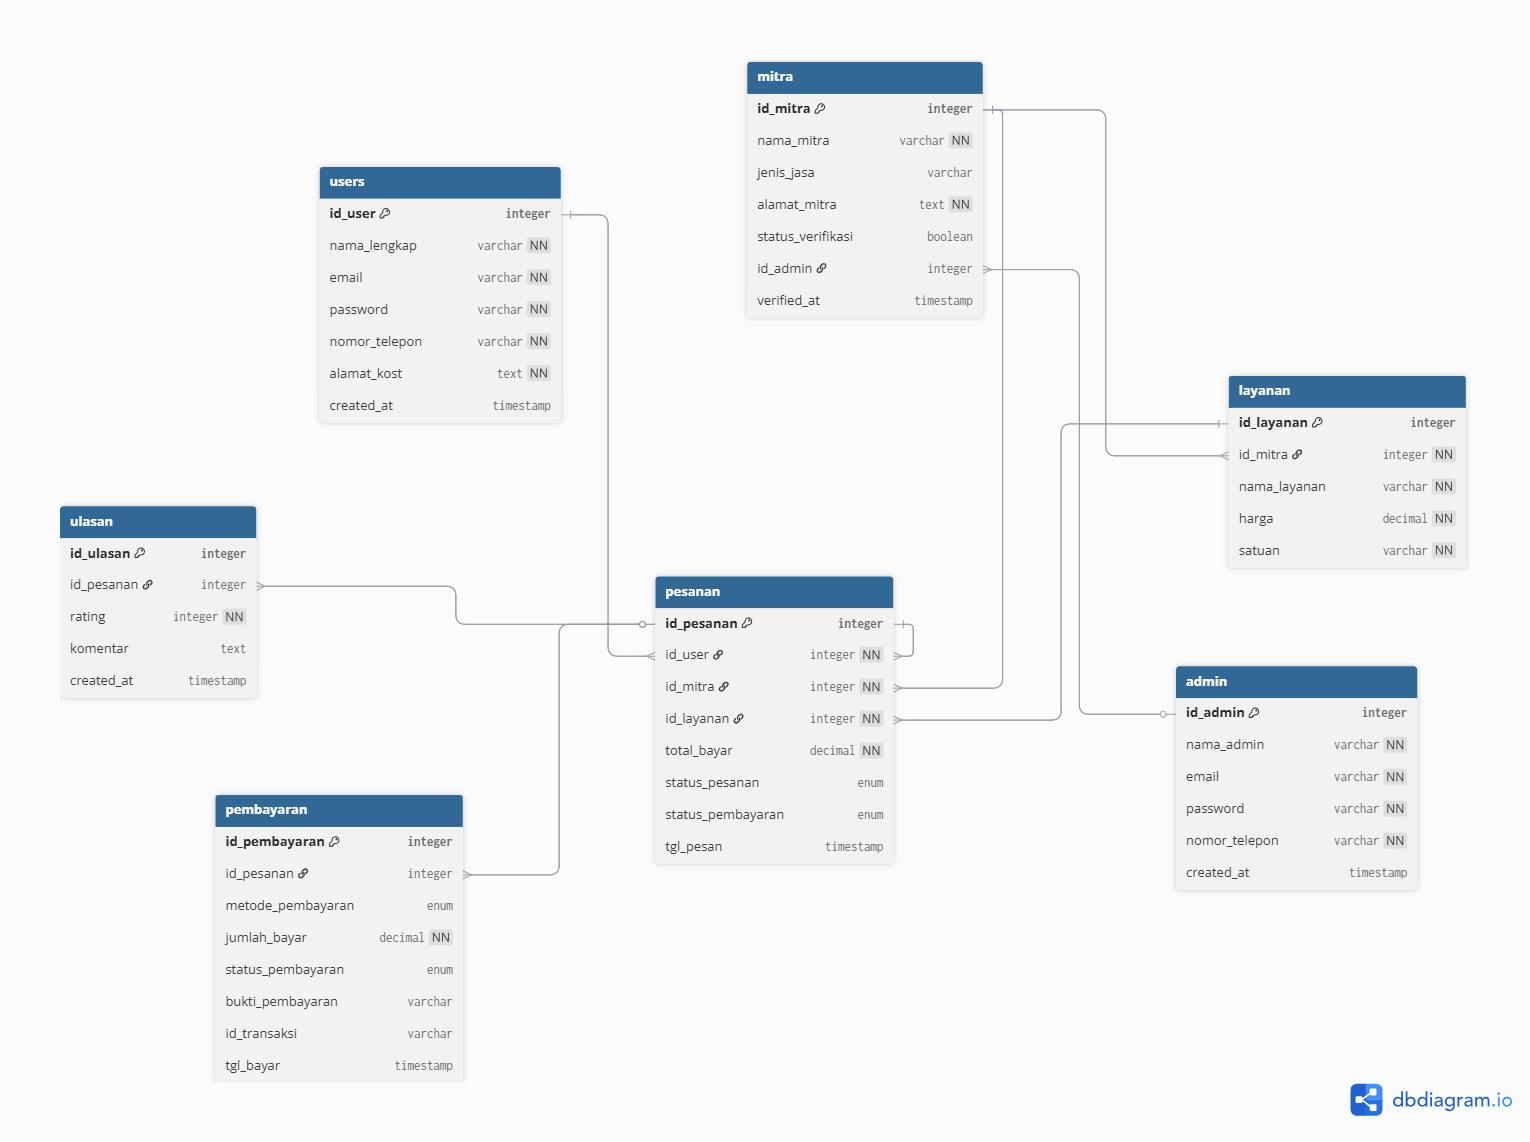
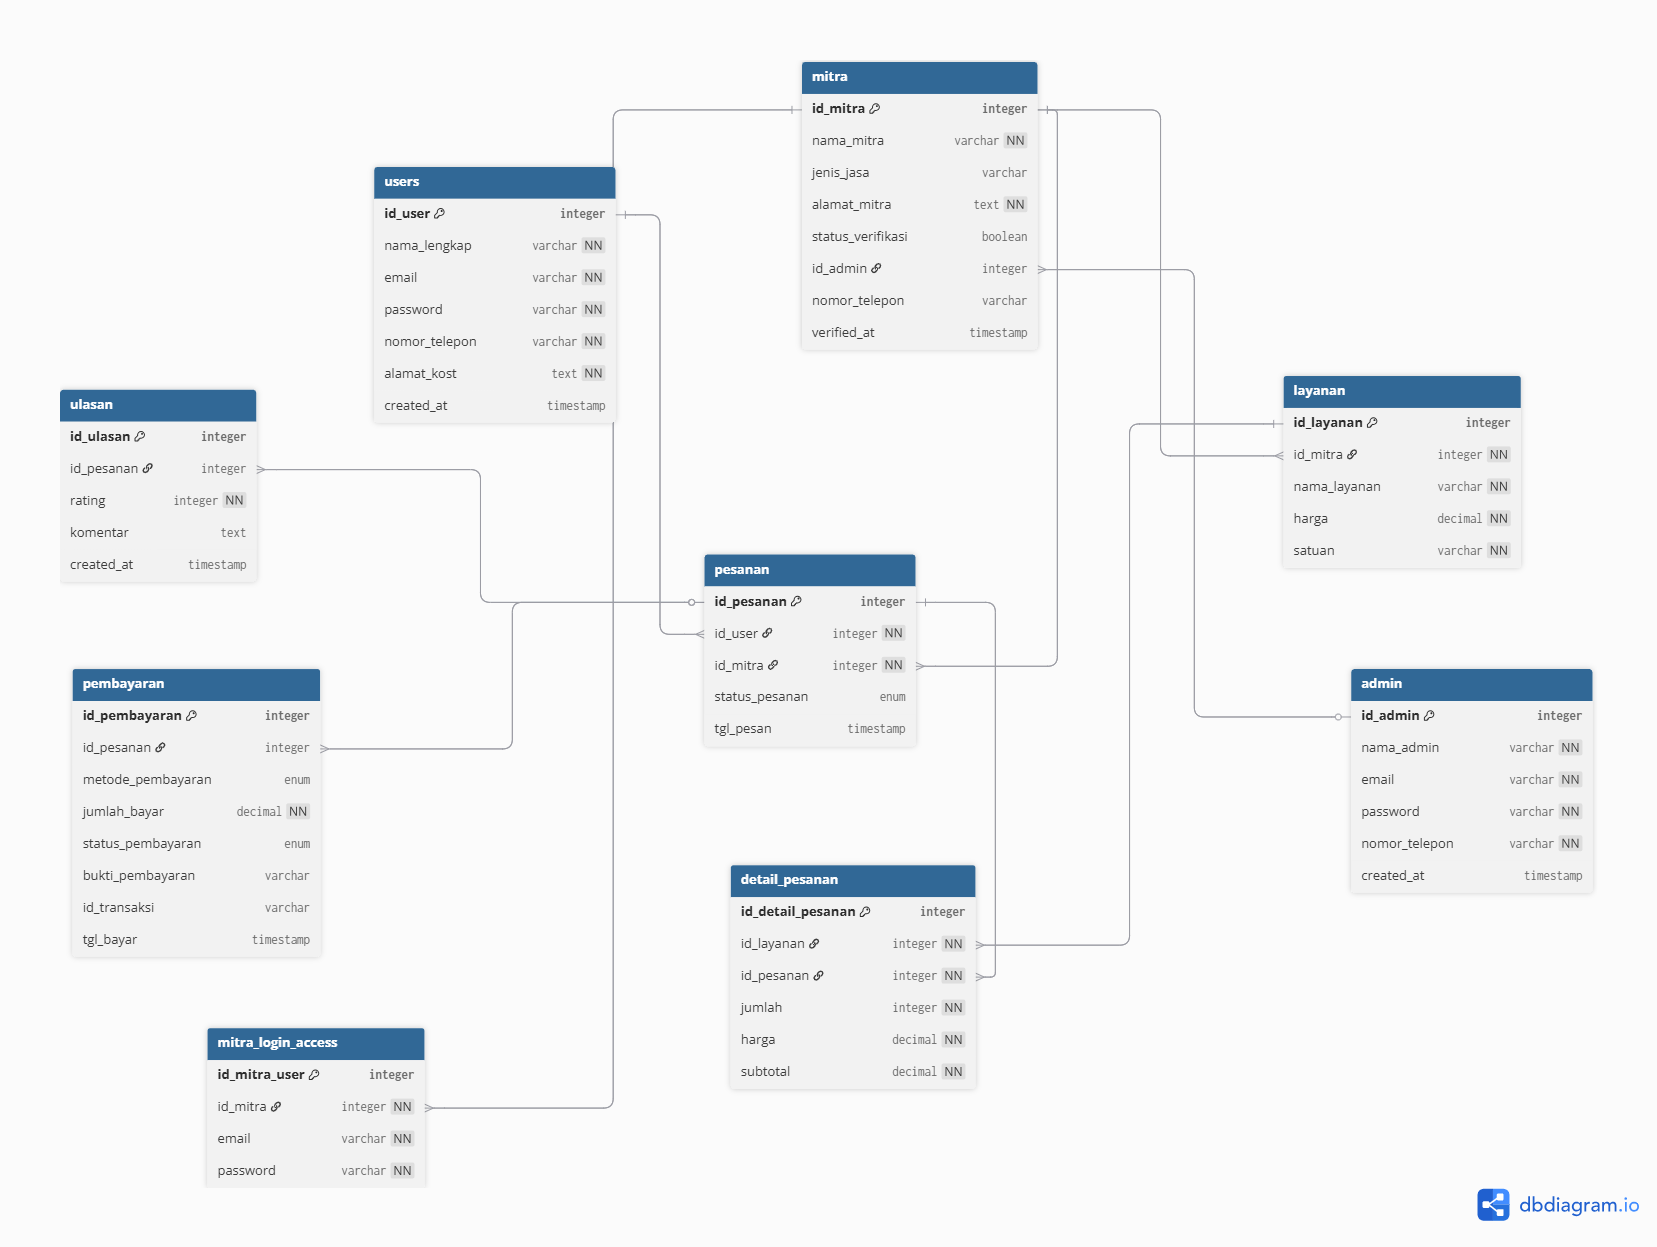
docs: erd and data dictionary revisions

diff --git a/docs/data-dictonary.md b/docs/data-dictonary.md
@@ -8,238 +8,91 @@ Dokumen ini berisikan detail teknis terkait entitas data yang digunakan dalam pl
 Berikut adalah daftar tabel yang akan diimplementasikan:
 
 ## users
-*   Nama kolom:id_user
-    Tipe data:integer
-    Constraint:primary key, unique
-    Keterangan:ID unik pengguna
-
-*   Nama kolom:nama_lengkap
-    Tipe data:varchar
-    Constraint:not null
-    Keterangan:nama lengkap user
-
-*   Nama kolom:email
-    Tipe data:varchar
-    Constraint:unique, not null
-    Keterangan:email untuk login
-
-*   Nama kolom:password
-    Tipe data:varchar
-    Constraint:not null
-    Keterangan:password user yang dihashing
-
-*   Nama kolom:nomor_telepon
-    Tipe data:varchar
-    Constraint:unique, not null
-    Keterangan:nomor telepon user
-
-*   Nama kolom:alamat_kost
-    Tipe data:text
-    Constraint:not null
-    Keterangan:lokasi spesifik pengiriman/penjemputan
-
-*   Nama kolom:created_at
-    Tipe data:timestamp
-    Constraint: -
-    Keterangan:waktu pendaftaran akun
+| Nama Kolom | Tipe Data | Constraint | Keterangan |
+| --- | --- | --- | --- |
+| id_user | integer | primary key, unique | ID unik pengguna |
+| nama_lengkap | varchar | not null | Nama lengkap user |
+| email | varchar | unique, not null | Email untuk login |
+| password | varchar | not null | Password user (hashed) |
+| nomor_telepon | varchar | unique, not null | Nomor telepon user |
+| alamat_kost | text | not null | Lokasi kost / alamat pengiriman |
+| created_at | timestamp | - | Waktu pendaftaran akun |
 ----------------------------------------------------------------------
 ## admin
-*   Nama kolom:id_admin
-    Tipe data:integer
-    Constraint:primary key, unique
-    Keterangan:ID unik admin
-
-*   Nama kolom:nama_admin
-    Tipe data:varchar
-    Constraint:not null
-    Keterangan:Nama admin
-
-*   Nama kolom:email
-    Tipe data:varchar
-    Constraint:unique, not null
-    Keterangan:email admin
-
-*   Nama kolom:password
-    Tipe data:varchar
-    Constraint:not null
-    Keterangan:password yang dihashing
-
-*   Nama kolom:nomor_telepon
-    Tipe data:varchar
-    Constraint:not null, unique
-    Keterangan:nomor telepon admin
-
-*   Nama kolom:created_at
-    Tipe data:timestamp
-    Constraint:-
-    Keterangan:waktu pembuatan akun admin
+| Nama Kolom | Tipe Data | Constraint | Keterangan |
+| --- | --- | --- | --- |
+| id_admin | integer | primary key, unique | ID unik admin |
+| nama_admin | varchar | not null | Nama admin |
+| email | varchar | unique, not null | Email admin |
+| password | varchar | not null | Password admin (hashed) |
+| nomor_telepon | varchar | unique, not null | Nomor telepon admin |
+| created_at | timestamp | - | Waktu pembuatan akun admin |
 ----------------------------------------------------------------------
 ## mitra
-*   Nama kolom:id_mitra
-    Tipe data:integer
-    Constraint:primary key, unique
-    Keterangan:ID unik mitra
-
-*   Nama kolom:nama_mitra
-    Tipe data:varchar
-    Constraint:not null
-    Keterangan:Nama usaha mitra
-
-*   Nama kolom:jenis_jasa
-    Tipe data:varchar
-    Constraint:not null
-    Keterangan:jenis jasa yang ditawarkan mitra
-
-*   Nama kolom:alamat_mitra
-    Tipe data:text
-    Constraint:not null
-    Keterangan:lokasi tempat usaha mitra
-
-*   Nama kolom:status_verifikasi
-    Tipe data:boolean
-    Constraint:default[0]
-    Keterangan:status verifikasi yang diberikan oleh admin
-
-*   Nama kolom:id_admin
-    Tipe data:integer
-    Constraint:-
-    Keterangan:id admin yang memberikan verifikasi mitra
-
-*   Nama kolom:verified_at
-    Tipe data:timestamp
-    Constraint:-
-    Keterangan:waktu mitra diverifikasi oleh admin
+| Nama Kolom | Tipe Data | Constraint | Keterangan |
+| --- | --- | --- | --- |
+| id_mitra | integer | primary key, unique | ID unik mitra |
+| nama_mitra | varchar | not null | Nama usaha mitra |
+| jenis_jasa | varchar | - | Jenis jasa yang ditawarkan |
+| alamat_mitra | text | not null | Lokasi usaha mitra |
+| status_verifikasi | boolean | default: 0 | Status verifikasi oleh admin |
+| id_admin | integer | - | ID admin yang memverifikasi |
+| nomor_telepon | varchar | - | Nomor telepon mitra |
+| verified_at | timestamp | - | Waktu mitra diverifikasi |
+----------------------------------------------------------------------
+## mitra_login_access
+| Nama Kolom | Tipe Data | Constraint | Keterangan |
+| --- | --- | --- | --- |
+| id_mitra_user | integer | primary key | ID unik akun login mitra |
+| id_mitra | integer | not null | Foreign key ke tabel mitra |
+| email | varchar | not null, unique | Email login mitra |
+| password | varchar | not null | Password login mitra (hashed) |
 ----------------------------------------------------------------------
 ## layanan
-*   Nama kolom:id_layanan
-    Tipe data:integer
-    Constraint:primary key, unique
-    Keterangan:ID unik layanan
-
-*   Nama kolom:id_mitra
-    Tipe data:integer
-    Constraint:not null
-    Keterangan:foreign key ke tabel mitra
-
-*   Nama kolom:nama_layanan
-    Tipe data:varchar
-    Constraint:not null
-    Keterangan:nama layanan yang ditawarkan mitra
-
-*   Nama kolom:harga
-    Tipe data:decimal
-    Constraint:not null
-    Keterangan:harga per unit/kg/jam
-
-*   Nama kolom:satuan
-    Tipe data:varchar
-    Constraint:not null
-    Keterangan:kg/jam/unit
+| Nama Kolom | Tipe Data | Constraint | Keterangan |
+| --- | --- | --- | --- |
+| id_layanan | integer | primary key, unique | ID unik layanan |
+| id_mitra | integer | not null | Foreign key ke tabel mitra |
+| nama_layanan | varchar | not null | Nama layanan |
+| harga | decimal | not null | Harga layanan |
+| satuan | varchar | not null | Satuan (kg/jam/unit) |
 ----------------------------------------------------------------------
 ## pesanan
-*   Nama kolom:id_pesanan
-    Tipe data:integer
-    Constraint:primary key, unique
-    Keterangan:ID unik pesanan
-
-*   Nama kolom:id_user
-    Tipe data:integer
-    Constraint:not null
-    Keterangan:id user yang melakukan pemesanan
-
-*   Nama kolom:id_mitra
-    Tipe data:integer
-    Constraint:not null
-    Keterangan:id mitra yang menerima pesanan
-
-*   Nama kolom:id_layanan
-    Tipe data:integer
-    Constraint:not null
-    Keterangan:id layanan yang dipilih
-
-*   Nama kolom:total_bayar
-    Tipe data:decimal
-    Constraint:not null
-    Keterangan:total harga setelah kalkulasi
-
-*   Nama kolom:status_pesanan
-    Tipe data:enum ['pending', 'diproses', 'selesai', 'dibatalkan']
-    Constraint:default['pending']
-    Keterangan:status dari pesanan
-
-*   Nama kolom:status_pembayaran
-    Tipe data:enum ['belum_bayar', 'menunggu_verifikasi', 'sudah_bayar']
-    Constraint:default['belum_bayar']
-    Keterangan:status pembayaran dari pesanan
-
-*   Nama kolom:tgl_pesan
-    Tipe data:timestamp
-    Constraint:-
-    Keterangan:waktu pesanan dibuat
+| Nama Kolom | Tipe Data | Constraint | Keterangan |
+| --- | --- | --- | --- |
+| id_pesanan | integer | primary key, unique | ID unik pesanan |
+| id_user | integer | not null | Foreign key ke tabel users |
+| id_mitra | integer | not null | Foreign key ke tabel mitra |
+| status_pesanan | enum | default: 'pending' | Status pesanan |
+| tgl_pesan | timestamp | - | Waktu pesanan dibuat |
+----------------------------------------------------------------------
+## detail_pesanan
+| Nama Kolom | Tipe Data | Constraint | Keterangan |
+| --- | --- | --- | --- |
+| id_detail_pesanan | integer | primary key | ID unik detail pesanan |
+| id_layanan | integer | not null | Foreign key ke tabel layanan |
+| id_pesanan | integer | not null | Foreign key ke tabel pesanan |
+| jumlah | integer | not null | Jumlah item layanan |
+| harga | decimal | not null | Harga per item |
+| subtotal | decimal | not null | Total harga item (jumlah × harga) |
 ----------------------------------------------------------------------
 ## ulasan
-*   Nama kolom:id_ulasan
-    Tipe data:integer
-    Constraint:primary key, unique
-    Keterangan:ID unik ulasan
-
-*   Nama kolom:id_pesanan
-    Tipe data:integer
-    Constraint:unique
-    Keterangan:foreign key ke tabel pesanan->merujuk ke transaksi pesanan secara spesifik
-
-*   Nama kolom:rating
-    Tipe data:integer
-    Constraint:not null
-    Keterangan:skor bintang->penilaian terhadap kualitas layanan
-
-*   Nama kolom:komentar
-    Tipe data:text
-    Constraint:-
-    Keterangan:catatan/ulasan dari pelanggan(user)
-
-*   Nama kolom:created_at
-    Tipe data:timestamp
-    Constraint:-
-    Keterangan:waktu ulasan dibuat
+| Nama Kolom | Tipe Data | Constraint | Keterangan |
+| --- | --- | --- | --- |
+| id_ulasan | integer | primary key, unique | ID unik ulasan |
+| id_pesanan | integer | unique | Foreign key ke tabel pesanan |
+| rating | integer | not null | Skor rating (bintang) |
+| komentar | text | - | Komentar ulasan |
+| created_at | timestamp | - | Waktu ulasan dibuat |
 ----------------------------------------------------------------------
 ## pembayaran
-*   Nama kolom:id_pembayaran
-    Tipe data:integer
-    Constraint:primary key, unique
-    Keterangan:ID unik transaksi pembayaran
-
-*   Nama kolom:id_pesanan
-    Tipe data:integer
-    Constraint:unique
-    Keterangan:foreign key ke tabel pesanan->merujuk pada pesanan secara spesifik
-
-*   Nama kolom:metode_pembayaran
-    Tipe data:enum ['cod', 'transfer_bank','qris', 'e-wallet']
-    Constraint:default['cod']
-    Keterangan:metode yang dilakukan untuk pembayaran
-
-*   Nama kolom:jumlah_bayar
-    Tipe data:decimal
-    Constraint:not null
-    Keterangan:nominal yang harus dibayarkan
-
-*   Nama kolom:status_pembayaran
-    Tipe data:enum ['pending', 'lunas', 'gagal', 'refund']
-    Constraint:default['pending']
-    Keterangan:status dari transaksi pembayaran
-
-*   Nama kolom:bukti_pembayaran
-    Tipe data:varchar
-    Constraint:-
-    Keterangan:nama file/url gambar (untuk transfer bank manual)
-
-*   Nama kolom:id_transaksi
-    Tipe data:varchar
-    Constraint:-
-    Keterangan:ID reference dari payment gateway yang digunakan
-
-*   Nama kolom:tgl_bayar
-    Tipe data:timestamp
-    Constraint:-
-    Keterangan:waktu transaksi dilakukan
+| Nama Kolom | Tipe Data | Constraint | Keterangan |
+| --- | --- | --- | --- |
+| id_pembayaran | integer | primary key, unique | ID unik pembayaran |
+| id_pesanan | integer | unique | Foreign key ke tabel pesanan |
+| metode_pembayaran | enum | default: 'cod' | Metode pembayaran |
+| jumlah_bayar | decimal | not null | Nominal pembayaran |
+| status_pembayaran | enum | default: 'pending' | Status pembayaran |
+| bukti_pembayaran | varchar | - | File/URL bukti pembayaran |
+| id_transaksi | varchar | - | ID transaksi dari gateway |
+| tgl_bayar | timestamp | - | Waktu pembayaran dilakukan |